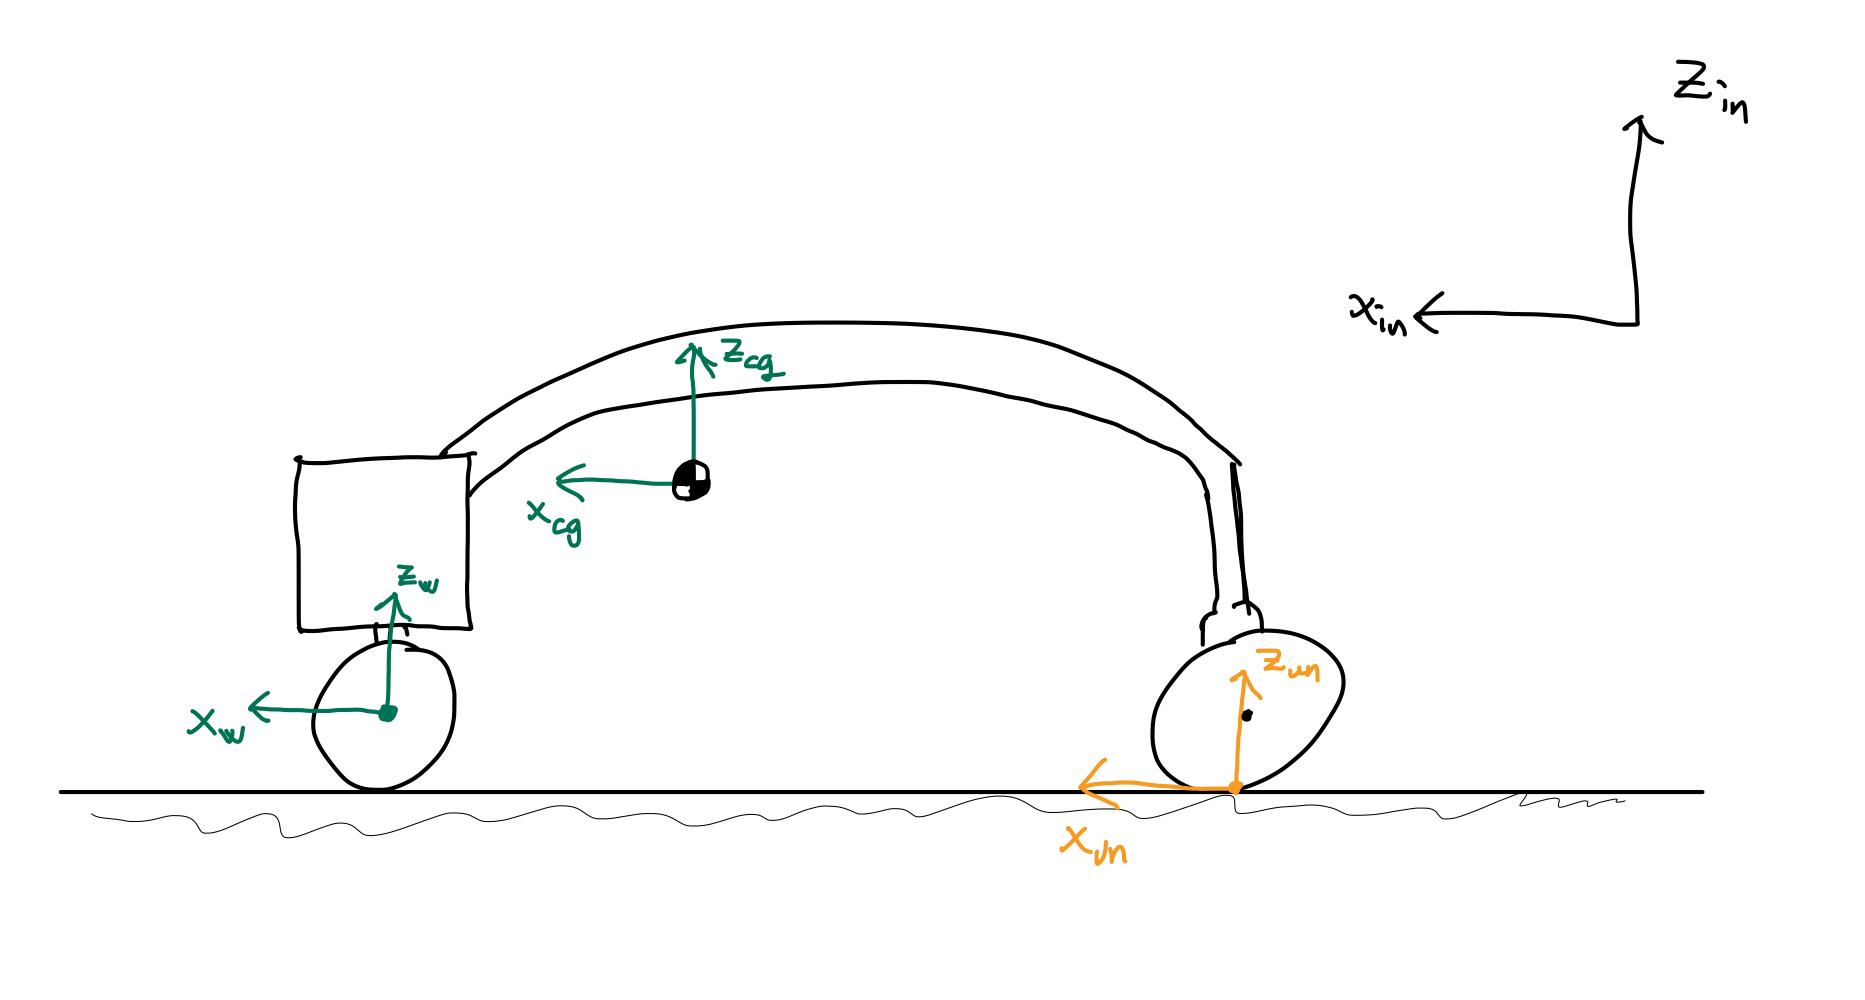
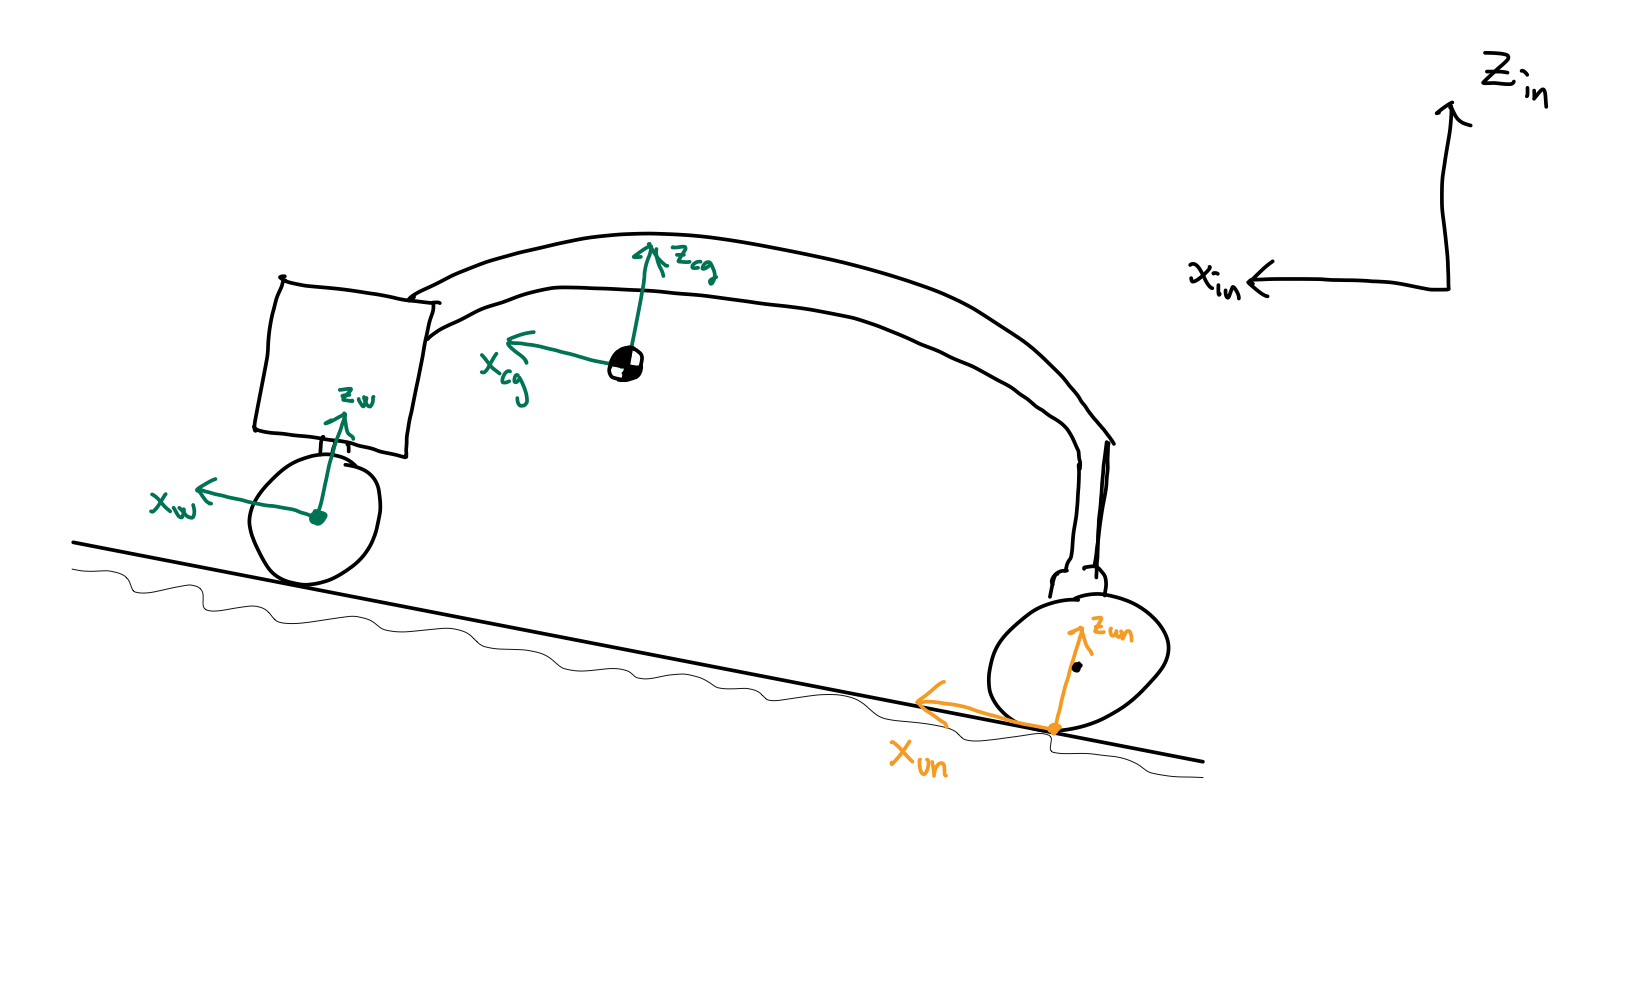
sort out rotations and add example

diff --git a/sections/rigid-body-kinematics.tex b/sections/rigid-body-kinematics.tex
@@ -52,10 +52,8 @@ To denote the position of the vehicle we will use $x,y,z$ which is the position 
   \end{bmatrix}
   =
   \begin{bmatrix}
-    ? & ? & ? & x \\
-    ? & ? & ? & y \\
-    ? & ? & ? & z \\
-    0 & 0 & 0 & 1
+    \mathbf{R}_x(-\phi)\mathbf{R}_y(-\theta)\mathbf{R}_z(-\psi) & \mathbf{o}_{CG}^{In} \\
+    \mathbf{0} & 1
   \end{bmatrix}
 \end{equation}
 
@@ -87,53 +85,73 @@ Let $L_f$ be the distance from CG to the front axle along the x-axis in $CG$, $r
 \begin{align}
   \mathbf{T}_{WFL}^{Un} &= 
   \begin{bmatrix}
-    \mathbf{R}_z(\pm \delta_{WFL}) & \mathbf{o}_{WFL}^{Un} \\
+    \mathbf{R}_z(-\delta_{WFL}) & \mathbf{o}_{WFL}^{Un} \\
     \mathbf{0} & 1
-  \end{bmatrix}
-  =
+  \end{bmatrix} \\
+  &=
   \begin{bmatrix}
-    ? & ? & 0 & L_r + L_f \\
-    ? & ? & 0 & B_f/2 \\
+    \cos{\delta_{WFL}} & \sin{\delta_{WFL}} & 0 & L_r + L_f \\
+    -\sin{\delta_{WFL}} & \cos{\delta_{WFL}} & 0 & B_f/2 \\
     0 & 0 & 1 & r_W \\
     0 & 0 & 0 & 1
   \end{bmatrix} \\
   \mathbf{T}_{WFR}^{Un} &= 
   \begin{bmatrix}
-    \mathbf{R}_z(\pm \delta_{WFR}) & \mathbf{o}_{WFR}^{Un} \\
+    \mathbf{R}_z(-\delta_{WFR}) & \mathbf{o}_{WFR}^{Un} \\
     \mathbf{0} & 1
-  \end{bmatrix}
-  =
-  \begin{bmatrix}
-    ? & ? & 0 & L_r + L_f \\
-    ? & ? & 0 & -B_f/2 \\
-    0 & 0 & 1 & r_W \\
-    0 & 0 & 0 & 1
   \end{bmatrix} \\
   \mathbf{T}_{WRL}^{Un} &= 
   \begin{bmatrix}
-    \mathbf{R}_z(\pm \delta_{WRL}) & \mathbf{o}_{WRL}^{Un} \\
+    \mathbf{R}_z(-\delta_{WRL}) & \mathbf{o}_{WRL}^{Un} \\
     \mathbf{0} & 1
-  \end{bmatrix}
-  =
-  \begin{bmatrix}
-    ? & ? & 0 & 0 \\
-    ? & ? & 0 & B_r/2 \\
-    0 & 0 & 1 & r_W \\
-    0 & 0 & 0 & 1
   \end{bmatrix} \\
   \mathbf{T}_{WRR}^{Un} &= 
   \begin{bmatrix}
-    \mathbf{R}_z(\pm \delta_{WRR}) & \mathbf{o}_{WRR}^{Un} \\
+    \mathbf{R}_z(-\delta_{WRR}) & \mathbf{o}_{WRR}^{Un} \\
     \mathbf{0} & 1
   \end{bmatrix}
-  =
-  \begin{bmatrix}
-    ? & ? & 0 & 0 \\
-    ? & ? & 0 & -B_r/2 \\
-    0 & 0 & 1 & r_W \\
-    0 & 0 & 0 & 1
-  \end{bmatrix} \\
 \end{align}
+
+
+\todo[inline]{create and use example environment for consistency}
+\paragraph{Example - position of wheels in inertial frame}
+
+Say we want to know the position of the front left wheel in the inertial frame. Then we need a transform between the front left wheel coordinate system and the inertial system. 
+
+\begin{equation}
+  \mathbf{T}_{WFL}^{In} =
+    \mathbf{T}_{CG}^{In} \mathbf{T}_{Un}^{CG} \mathbf{T}_{WFL}^{Un}
+\end{equation}
+
+Since the position of the wheel is the origin of the wheels coordinate system $\mathbf{p}^{WFL} = [0, 0, 0]^T$, the position of the wheel in the inertial frame is given by
+
+\begin{align}
+  \mathbf{p}^{In} &= \mathbf{T}_{WFL}^{In}\mathbf{p}^{WFL} \\
+  &= \mathbf{T}_{CG}^{In}\mathbf{T}_{Un}^{CG}\mathbf{T}_{WFL}^{Un}
+  \begin{bmatrix}
+    0 \\ 0 \\ 0
+  \end{bmatrix} \\
+  &= \mathbf{T}_{CG}^{In}\mathbf{T}_{Un}^{CG}
+  \begin{bmatrix}
+    L_r+L_f \\ B_f/2 \\ r_W
+  \end{bmatrix} \\
+  &= \mathbf{T}_{CG}^{In}
+  \begin{bmatrix}
+    L_f \\ B_f/2 \\ -h_{CG} + r_W
+  \end{bmatrix} \\
+  &=
+  \mathbf{R}_{CG}^{In}
+  \begin{bmatrix}
+    L_f \\ B_f/2 \\ -h_{CG} + r_W
+  \end{bmatrix}
+  +
+  \begin{bmatrix}
+    x \\ y \\ z
+  \end{bmatrix}
+\end{align}
+
+
+
 
 
 

diff --git a/sections/rotations.tex b/sections/rotations.tex
@@ -1,0 +1,27 @@
+\section{Parameterization of transformations}
+
+Use \cite{spong} as reference for rotations.
+
+\subsection{Rotations using Roll-Pitch-Yaw}
+
+We will parametrize rotations using roll, pitch, and yaw (RPY) respectively denoted $\phi$, $\theta$, and $\psi$. These angles denote rotations about the fixed inertial frame axes as illustrated in \cref{fig:rpy-angles}. We will use the order of rotation $x-y-z$, meaning first roll about $x_{In}$, then pitch about $y_{In}$, and then yaw about $z_{In}$.
+
+\info[inline]{inertial frame hasn't been defined yet, might be better to just call it a base frame}
+
+
+\begin{figure}
+    \centering
+    \includegraphics[width=\textwidth]{sections/figures/roll-pitch-yaw.jpeg}
+    \caption{Roll-pitch-yaw angles}
+    \label{fig:rpy-angles}
+\end{figure}
+
+Since we specify the RPY rotations about a fixed frame, the rotation matrix is given by
+
+\begin{equation}
+  \mathbf{R} = \mathbf{R}_{z,\psi}\mathbf{R}_{y,\theta}\mathbf{R}_{x,\phi}
+\end{equation}
+
+
+
+\subsection{Homogeneous transformations}

diff --git a/main.tex b/main.tex
@@ -17,6 +17,7 @@
 \import{draft/}{on-developing-all-wheel-drive-model.tex}
 \import{draft/}{wheel-dynamics.tex}
 \import{draft/}{grip-phd.tex}
+\import{sections/}{rotations.tex}
 \import{sections/}{rigid-body-kinematics.tex}
 
 \printbibliography
